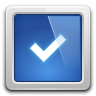
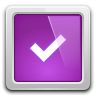
Ajustes tareas

diff --git a/app/tareas.php b/app/tareas.php
@@ -1,7 +1,7 @@
 <div id="tareaswrapper" class="white">
 <ul id="tareas">
 </ul>
-<div><button id="crear">+ Añadir tarea2</button></div>
+<div><button id="crear">+ Añadir tarea</button></div>
 <div id="tabs"><a class="white">Todo</a><a class="red">Sitio</a><a class="blue">Aprender</a><a class="yellow">Hack</a><a class="cyan">Gráficas</a><a class="green">Recursos</a></div>
 </div>
 <script type="text/javascript">
@@ -133,8 +133,8 @@ l8n.borrar = '¿Quieres borrar esta tarea?';
 </script>
 <style type="text/css">
 #pageapp.on {background: #ccc}	
-#tareaswrapper {clear:both; margin:10px 10px 40px; background:#555;padding:30px 10px 5px;color:#fff; line-height: 20px;box-shadow: inset 0px 5px 10px rgba(0,0,0,0.4), 0px -1px 0px #999, 0px 1px 2px #fff; border-radius: 5px; position:relative}
-#tareas li, #tareaswrapper #crear {display:block;clear:both; background:rgba(0,0,0,0.2); border-radius:5px; margin:5px 0; padding: 0 10px 0 5px; position: relative; -webkit-transition:0.1s linear;-moz-transition:0.1s linear;transition:0.1s linear; overflow:hidden}
+#tareaswrapper {clear:both; margin:10px 10px 40px; background:#ad48c3;padding:30px 10px 5px;color:#fff; line-height: 20px;box-shadow: inset 0px 5px 10px rgba(0,0,0,0.4), 0px -1px 0px #999, 0px 1px 2px #fff; border-radius: 5px; position:relative;-webkit-transition:background 0.1s linear;-moz-transition:background 0.1s linear;transition:background 0.1s linear;}
+#tareas li, #tareaswrapper #crear {display:block;min-height:30px;clear:both; background:rgba(0,0,0,0.2); border-radius:5px; margin:5px 0; padding: 0 10px 0 5px; position: relative; -webkit-transition:background 0.1s linear;-moz-transition:background 0.1s linear;transition:background 0.1s linear; overflow:hidden}
 #tareas i {display: block; width: 40px; height:40px; float: left;opacity:0; background:url(img/hecho.png) center no-repeat; background-size: cover }
 #tareas b {cursor: pointer;display: block;float: right;margin: 0;padding: 2px 10px;color:rgba(255,255,255,0.5)}
 #tareas b:hover {color:#fff;}
@@ -158,13 +158,13 @@ l8n.borrar = '¿Quieres borrar esta tarea?';
 #tareaswrapper.yellow,#tareaswrapper .yellow {background:rgba(150,150,0,0.6);}
 #tareaswrapper.cyan,#tareaswrapper .cyan {background:rgba(0,100,100,0.6);}
 #tareaswrapper.green,#tareaswrapper .green {background:rgba(0,150,0,0.6);}
-#tareaswrapper li {height: 0px; min-height: 0px}
-#tareaswrapper.white li,#tareaswrapper.red li.red,#tareaswrapper.blue li.blue,#tareaswrapper.yellow li.yellow,#tareaswrapper.cyan li.cyan,#tareaswrapper.green li.green{height: auto;min-height:30px;}
-#tareaswrapper #crear {display: block;min-height:30px;border:0 none;margin:30px auto;color: #fff; font-weight:bold}
+#tareaswrapper li {display:none}
+#tareaswrapper.white li,#tareaswrapper.red li.red,#tareaswrapper.blue li.blue,#tareaswrapper.yellow li.yellow,#tareaswrapper.cyan li.cyan,#tareaswrapper.green li.green{display:block}
+#tareaswrapper #crear {display: block;border:0 none;margin:30px auto;color: #fff; font-weight:bold}
 #tareaswrapper #crear:hover {background:rgba(0,0,0,0.4)}
 #tabs {position: absolute; bottom:-30px}
 #tabs a {display: block; float: left; margin:0 3px; padding:5px 0; width:70px; height:20px; text-align: center; border-radius:0 0 5px 5px; cursor: pointer; font-size: 13px;}
-#tabs a.white {background:#555}
+#tabs a.white {background:#ad48c3}
 #tabs a:active {padding:8px 0 5px; margin-bottom:-3px}
 
 

diff --git a/app/hacks.php b/app/hacks.php
@@ -1,29 +1,20 @@
-<h1 id="titulo">Espacios de Hacks</h1>
 <div id="list" class="loading">
 
 </div>
 
 <script type="text/javascript">
-$('#list').html('');
+$('#list').html('<h1 id="titulo">Espacios de Hacks</h1>');
 $.ajax({
 	dataType: 'jsonp',jsonp: 'jsonp_callback',url: 'http://wahackpokemon.com/wah/api/get.hacks.php',
 	success: function(data) {
-		$('#list').append(data);/*
-		var html='';
-		for(var i=0;i<data.length;i++){
-		for(var i=0;i<3;i++){
-			html += '<article class="desplegable"><header><h1 class="tit">'+data[i][2]
-			+'<span>~'+data[i][1]+'</span><b>W</b></h1></header><section>'+data[i][3]+'</section></article>';
-		};
-		sessionStorage.noticias = html;
-		$not.removeClass('loading').html(html);
-		$('.tit',$not).on('click',pledesplegar);*/
+		$('#list').append(data);
 	},
 	error: function(err, textStatus, errorThrown) {alert(textStatus);} 
 });
 </script>
 <style type="text/css">
 #pageapp.on {background:#fff}
+#list {min-height:200px}
 #list li {display: block; min-height:40px; padding:5px; background: #fff; color: #666; text-align: center;}
 #list li:nth-child(even) {background: #eee}
 h1#titulo {background: #C5B600; color: #fff; text-align: center;line-height:40px; font-size:35px}

diff --git a/app/ranking.php b/app/ranking.php
@@ -1,4 +1,3 @@
-
 <ul id="list" class="loading">
 
 </ul>
@@ -25,6 +24,7 @@ $.ajax({
 </script>
 <style type="text/css">
 #pageapp.on {background:#fff}
+#list {min-height:200px}
 #list li {display: block; min-height:40px; padding:5px; background: #fff; color: #666}
 #list li:nth-child(even) {background: #eee}
 #list #titulo {background: #69bcc6; color: #fff; text-align: center;line-height:40px; font-size:35px}
